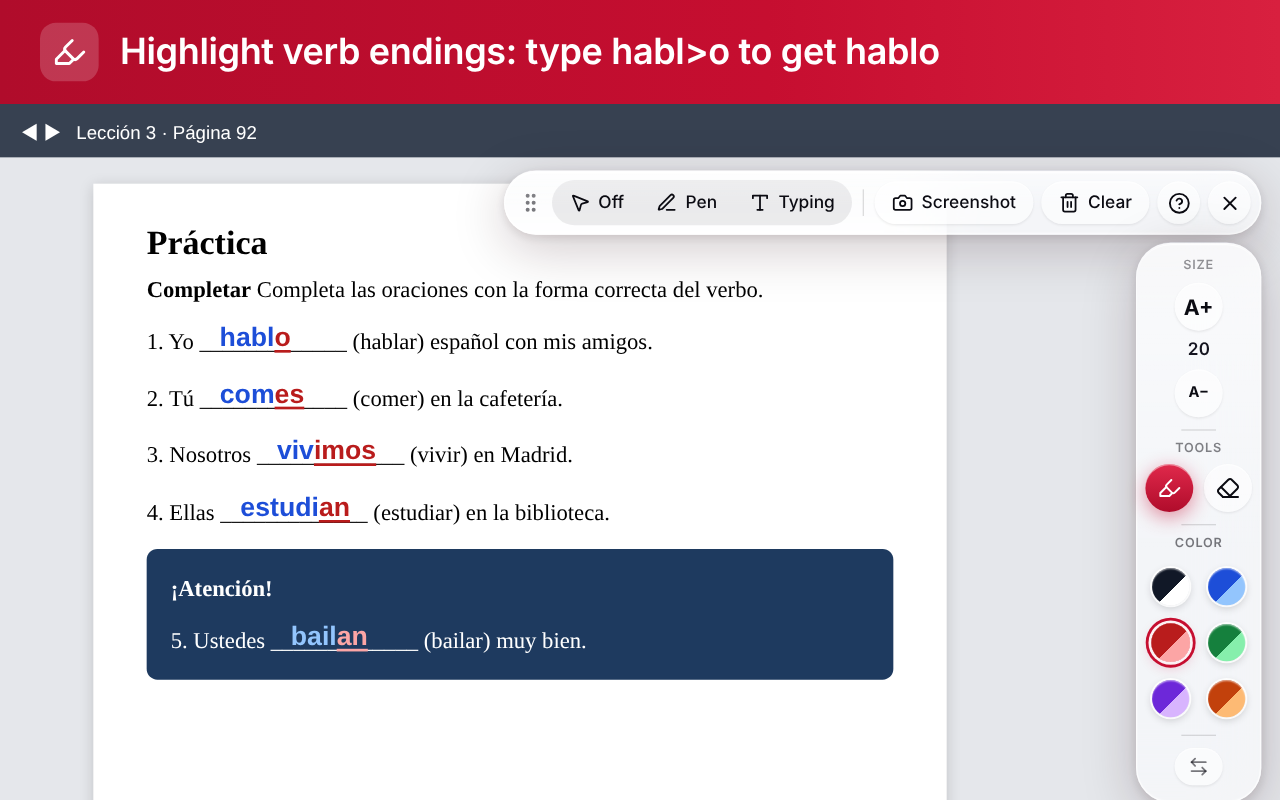
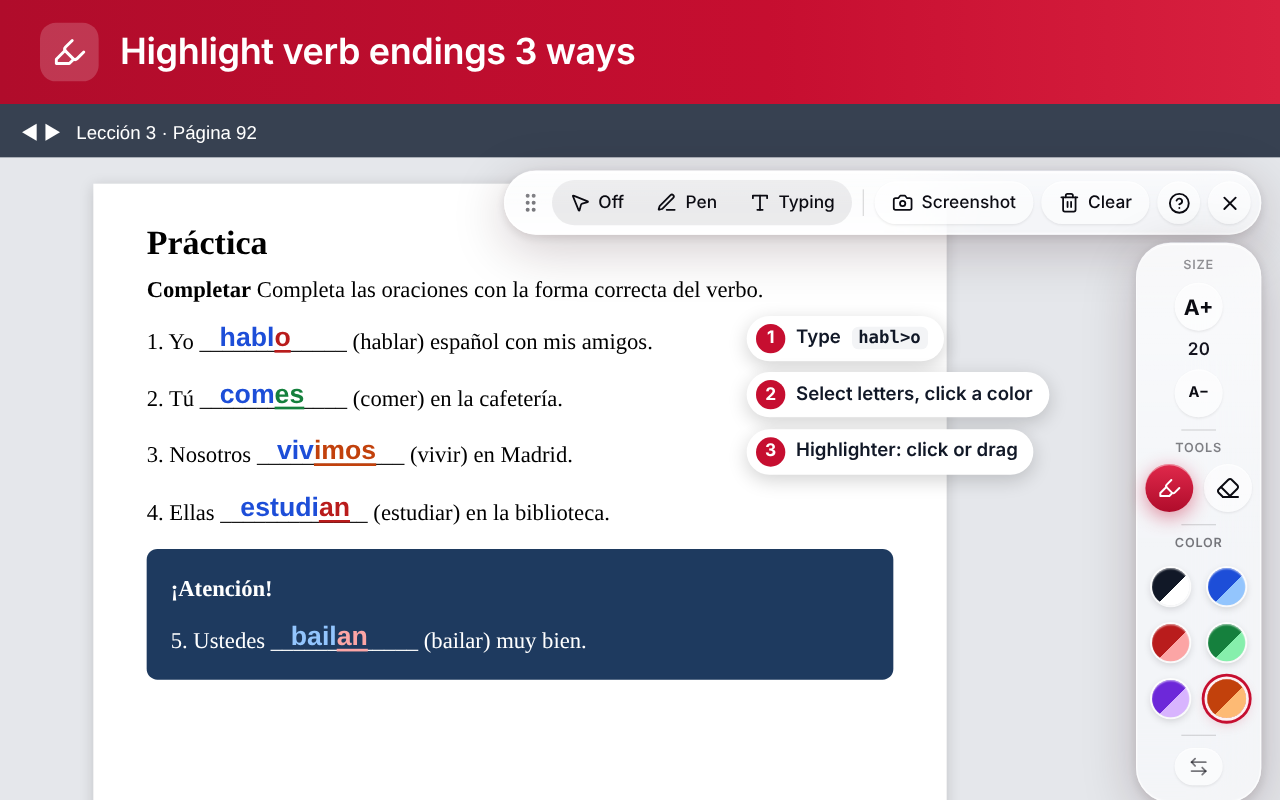
Store screenshot 2 shows all three ways to highlight
One answer per method, each in its own color with a numbered label: type
habl>o, select letters and click a color, and the highlighter (lit, with
its marker color selected).

Claude-Session: https://claude.ai/code/session_016ecH6UMAv2iiS5Nwg1RKtw

diff --git a/docs/store/README.md b/docs/store/README.md
@@ -121,7 +121,7 @@ Upload these from this folder. They were made from the real extension by
 |---|---|---|
 | Store icon (required) | [`store-icon-128.png`](store-icon-128.png) | 128×128 (96px artwork + 16px transparent padding, as Google asks) |
 | Screenshot 1 | [`screenshot-1.png`](screenshot-1.png): typing answers | 1280×800 |
-| Screenshot 2 | [`screenshot-2.png`](screenshot-2.png): verb endings highlighted | 1280×800 |
+| Screenshot 2 | [`screenshot-2.png`](screenshot-2.png): all 3 ways to highlight verb endings (type `>`, select + color, highlighter) | 1280×800 |
 | Screenshot 3 | [`screenshot-3.png`](screenshot-3.png): pen mode | 1280×800 |
 | Screenshot 4 | [`screenshot-4.png`](screenshot-4.png): copy or download a picture | 1280×800 |
 | Screenshot 5 | [`screenshot-5.png`](screenshot-5.png): the built-in tour | 1280×800 |
